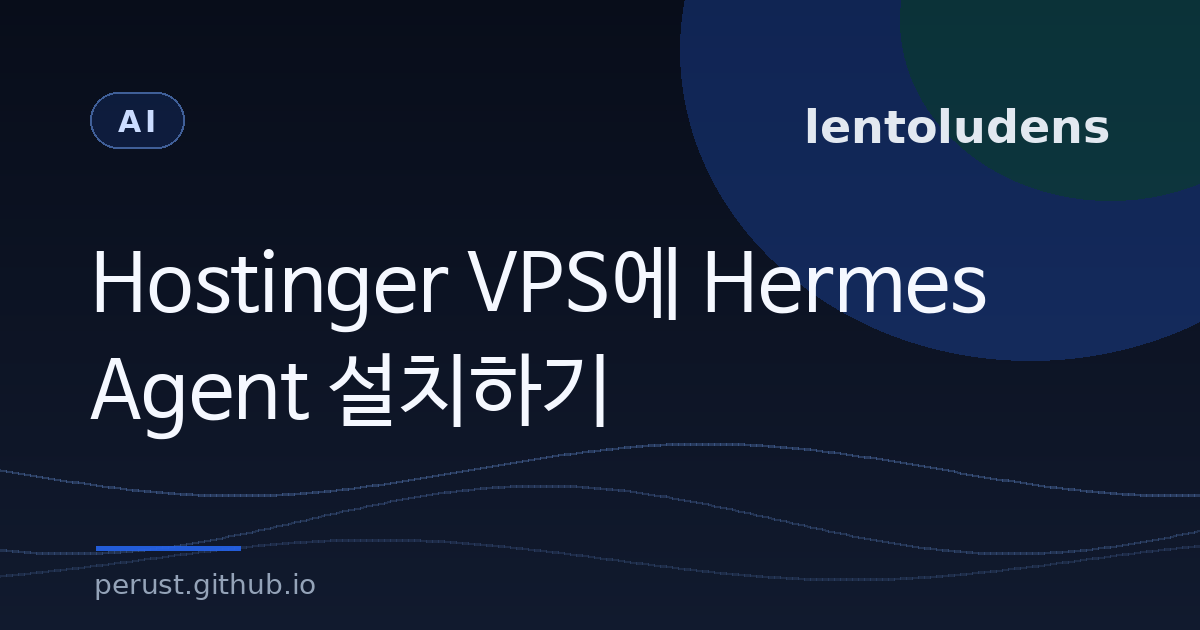
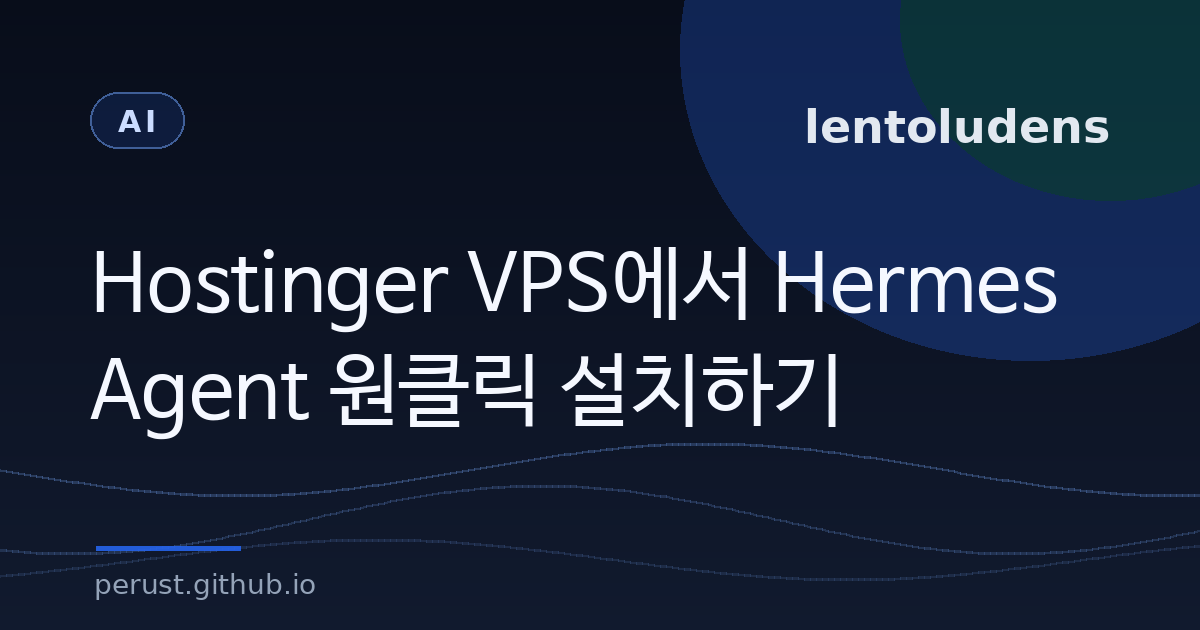
docs: clarify Hostinger Hermes one-click setup

Changed region(s): [[0.2775, 0.5429, 0.7092, 0.6937], [0.555, 0.3921, 0.8942, 0.5127]]

diff --git a/src/content/blog/2026-07-08-hostinger-vps-hermes-agent-install-guide.md b/src/content/blog/2026-07-08-hostinger-vps-hermes-agent-install-guide.md
@@ -1,13 +1,13 @@
 ---
-title: "Hostinger VPS에 Hermes Agent 설치하기"
-description: "Hostinger VPS에서 Hermes Agent를 설치하고 모델, 도구, 게이트웨이, 예약 작업까지 운영하는 과정을 Ubuntu 기준으로 정리했습니다."
+title: "Hostinger VPS에서 Hermes Agent 원클릭 설치하기"
+description: "Hostinger VPS의 Application Catalog로 Hermes Agent를 배포하고, 모델·CLI·도구·게이트웨이·예약 작업까지 설정하는 방법을 정리했습니다."
 date: "2026-07-08"
 category: "AI"
 tags: ["HermesAgent", "Hostinger", "VPS", "AI에이전트", "자동화", "서버운영", "Slack"]
 ---
 
-Hermes Agent를 제대로 쓰려면 개인 PC보다 VPS가 더 편한 경우가 많습니다. PC를 꺼도 에이전트가 계속 살아 있어야 하고, Slack·Discord·Telegram 같은 메신저에서 부르고, 정해진 시간에 자동 보고서를 보내게 만들려면 24시간 켜져 있는 서버가 필요하기 때문입니다.<br />
-Hostinger VPS는 이런 용도로 시작하기 쉬운 선택지입니다. 일반 웹호스팅이 아니라 Ubuntu VPS를 만들고, 그 안에 Hermes Agent를 설치하면 개인용 AI 작업 서버처럼 쓸 수 있습니다.
+Hostinger VPS에서는 Hermes Agent를 처음부터 수동 설치할 필요가 없습니다. Hostinger가 Application Catalog에서 Hermes Agent 배포 옵션을 제공하기 때문에, VPS 대시보드에서 앱을 선택하면 Docker 컨테이너와 필요한 서비스가 기본으로 만들어지는 흐름입니다.<br />
+따라서 이 글의 핵심은 “Ubuntu 서버에 처음부터 직접 설치”가 아니라, Hostinger의 Hermes Agent 원클릭 배포를 먼저 쓰고 이후 CLI·모델 제공자·도구·Gateway·Cron을 어떻게 설정해 개인 AI 작업 서버로 운영할지입니다.
 
 ![Hostinger VPS에서 Hermes Agent를 운영하는 구조](/images/posts/summary/2026-07-08-hostinger-vps-hermes-agent-install-guide-summary.svg)
 
@@ -16,18 +16,18 @@ Hostinger VPS는 이런 용도로 시작하기 쉬운 선택지입니다. 일반
 <ul class="issue-list">
   <li class="issue-card">
     <span class="issue-badge">전제</span>
-    <h3>공유 호스팅이 아니라 VPS</h3>
-    <p class="issue-summary">Hermes Agent는 터미널 실행, 파일 접근, 백그라운드 게이트웨이, 예약 작업이 필요합니다. 따라서 일반 웹호스팅보다 Ubuntu VPS 환경이 맞습니다.</p>
+    <h3>Hostinger Application Catalog 사용</h3>
+    <p class="issue-summary">Hostinger VPS에는 Hermes Agent를 Application Catalog에서 배포하는 옵션이 있습니다. 앱을 선택하면 Docker 기반으로 Hermes Agent 컨테이너와 관련 서비스가 자동 생성됩니다.</p>
   </li>
   <li class="issue-card">
     <span class="issue-badge">설치</span>
-    <h3>공식 설치 스크립트로 시작</h3>
-    <p class="issue-summary">Linux 기준 설치 명령은 <code>curl -fsSL https://hermes-agent.nousresearch.com/install.sh | bash</code>입니다. 설치 후 <code>hermes setup</code> 또는 <code>hermes model</code>로 모델 제공자를 설정합니다.</p>
+    <h3>수동 설치보다 원클릭 배포 먼저</h3>
+    <p class="issue-summary">기본 흐름은 hPanel의 VPS 대시보드에서 Hermes Agent를 선택하고 관리자 계정, 모델/API 키 또는 Hostinger 제공 크레딧을 설정한 뒤 배포하는 것입니다.</p>
   </li>
   <li class="issue-card">
     <span class="issue-badge">운영</span>
-    <h3>Gateway와 Cron까지 연결</h3>
-    <p class="issue-summary">메신저에서 Hermes를 부르려면 <code>hermes gateway setup</code>을 사용합니다. 반복 보고서나 서버 점검은 <code>hermes cron</code>으로 예약할 수 있습니다.</p>
+    <h3>CLI에서 설정을 마무리</h3>
+    <p class="issue-summary">배포 후에는 Hostinger Docker Manager의 터미널에서 Hermes CLI를 열고, 첫 실행 설정·모델 제공자·도구·Gateway·Cron을 필요에 맞게 조정합니다.</p>
   </li>
 </ul>
 
@@ -83,111 +83,66 @@ Hermes Agent는 로컬 노트북에도 설치할 수 있습니다. 하지만 자
   <div><dt>선택 사항</dt><dd>Slack·Discord·Telegram 봇 토큰, 도메인, Webhook/API 서버용 리버스 프록시 설정입니다.</dd></div>
 </div>
 
-Hermes 공식 문서에 따르면 Linux 설치에서 핵심 전제는 Git이며, Linux에서는 `curl`과 `xz-utils`도 준비되어 있어야 합니다. Python, Node.js, ripgrep, ffmpeg 등은 설치 스크립트가 자동으로 처리합니다.
+Hostinger 공식 안내에 따르면 Hermes Agent는 Hostinger VPS의 Application Catalog를 통해 배포할 수 있습니다. 이 방식은 Docker 기반으로 Hermes Agent 컨테이너와 Traefik 같은 필요한 서비스를 자동 생성하므로, 일반적인 Linux 수동 설치보다 먼저 고려할 기본 경로입니다.
+
+<https://www.hostinger.com/support/how-to-get-started-with-hermes-agent-on-hostinger-vps/>
+
+수동 설치가 필요한 경우에는 Hermes 공식 설치 문서의 Linux 설치 명령을 사용할 수 있습니다. 다만 Hostinger VPS에서 새로 시작한다면 Application Catalog 배포가 더 단순합니다.
 
 <https://hermes-agent.nousresearch.com/docs/getting-started/installation>
 
 ## 전체 설치 흐름
 
-Hostinger VPS 기준 흐름은 아래와 같습니다.
+Hostinger VPS 기준 기본 흐름은 아래와 같습니다.
+
+<div class="routine-kv">
+  <div><dt>1단계</dt><dd>Hostinger hPanel에서 VPS를 만들고 대시보드로 이동합니다.</dd></div>
+  <div><dt>2단계</dt><dd>Application Catalog 또는 Docker Manager에서 Hermes Agent를 선택합니다.</dd></div>
+  <div><dt>3단계</dt><dd>배포 중 관리자 username/password를 정하고, nexos.ai·Oxylabs 크레딧 또는 직접 보유한 API 키를 입력합니다.</dd></div>
+  <div><dt>4단계</dt><dd>Deploy를 누르면 Hostinger가 Hermes Agent 컨테이너와 필요한 서비스를 자동으로 만들고 시작합니다.</dd></div>
+  <div><dt>5단계</dt><dd>Docker Manager에서 Hermes 프로젝트의 Terminal 버튼을 눌러 Hermes CLI를 엽니다.</dd></div>
+</div>
+
+이 방식이면 SSH로 서버에 접속해 처음부터 패키지를 설치하고 `curl` 설치 스크립트를 실행하는 과정이 기본 경로가 아닙니다. SSH 접속과 수동 설치는 커스텀 운영, 디버깅, 또는 Hostinger 기본 앱 배포를 쓰지 않을 때의 보조 경로로 보면 됩니다.
+
+## Hostinger에서 Hermes Agent 배포
+
+Hostinger 공식 지원 문서 기준으로 Hermes Agent는 VPS의 Application Catalog에서 선택해 배포합니다. 배포 중에는 관리자 계정 정보를 정하고, 필요하면 모델이나 웹 추출용 API 키를 넣습니다.
+
+<div class="routine-grid">
+  <section class="routine-card">
+    <h3>Application Catalog</h3>
+    <p>VPS 대시보드에서 Hermes Agent를 검색하고 배포합니다. Hostinger는 이 과정을 원클릭 앱 배포 흐름으로 제공합니다.</p>
+  </section>
+  <section class="routine-card">
+    <h3>Docker 기반 실행</h3>
+    <p>배포가 끝나면 Hermes Agent는 Docker 컨테이너 안에서 실행됩니다. Hostinger 안내에 따르면 필요한 서비스도 함께 생성됩니다.</p>
+  </section>
+  <section class="routine-card">
+    <h3>내장 크레딧 또는 직접 API 키</h3>
+    <p>nexos.ai 크레딧을 쓰면 Claude, Gemini, GPT 계열 모델을 단일 게이트웨이로 연결할 수 있고, Oxylabs 크레딧은 웹 검색·데이터 추출에 사용할 수 있습니다. 직접 보유한 API 키를 넣는 것도 가능합니다.</p>
+  </section>
+  <section class="routine-card">
+    <h3>터미널에서 CLI 접근</h3>
+    <p>배포 후 Docker Manager에서 Hermes 프로젝트 옆 Terminal 버튼을 눌러 CLI를 열고 첫 설정을 마무리합니다.</p>
+  </section>
+</div>
+
+## SSH와 수동 설치가 필요한 경우
+
+대부분은 Application Catalog 배포로 시작하면 됩니다. 그래도 직접 서버를 만지고 싶거나, 별도 사용자·디렉터리·서비스 구조로 운영하려면 SSH 접속 후 수동 설치를 선택할 수 있습니다.
 
 ```bash
 ssh root@YOUR_VPS_IP
 apt update && apt upgrade -y
 apt install -y curl git xz-utils sudo ca-certificates ufw
-adduser hermes
-usermod -aG sudo hermes
-su - hermes
 curl -fsSL https://hermes-agent.nousresearch.com/install.sh | bash
 source ~/.bashrc
 hermes setup
 hermes
 ```
 
-이 흐름만 끝내도 CLI에서 Hermes Agent를 사용할 수 있습니다. 이후 운영 목적에 따라 도구, 게이트웨이, 예약 작업, 방화벽, 도메인을 추가하면 됩니다.
-
-## SSH 접속
-
-Hostinger VPS를 만든 뒤에는 서버 IP로 접속합니다. 예시는 다음과 같습니다.
-
-```bash
-ssh root@YOUR_VPS_IP
-```
-
-SSH 키를 쓰는 경우에는 다음처럼 접속합니다.
-
-```bash
-ssh -i ~/.ssh/your-key.pem root@YOUR_VPS_IP
-```
-
-처음 접속한 뒤에는 서버 패키지를 업데이트합니다.
-
-```bash
-apt update && apt upgrade -y
-```
-
-기본 패키지를 설치합니다.
-
-```bash
-apt install -y curl git xz-utils sudo ca-certificates ufw
-```
-
-## 전용 사용자 생성
-
-root 계정으로 계속 운영하는 것보다 전용 사용자를 만드는 편이 안전합니다. 여기서는 사용자명을 `hermes`로 두겠습니다.
-
-```bash
-adduser hermes
-usermod -aG sudo hermes
-```
-
-이후 해당 사용자로 전환합니다.
-
-```bash
-su - hermes
-```
-
-앞으로는 가능하면 이 사용자로 접속합니다.
-
-```bash
-ssh hermes@YOUR_VPS_IP
-```
-
-## Hermes Agent 설치
-
-Hermes Agent의 Linux 설치 명령은 공식 문서 기준 다음과 같습니다.
-
-```bash
-curl -fsSL https://hermes-agent.nousresearch.com/install.sh | bash
-```
-
-설치가 끝나면 셸 설정을 다시 불러옵니다.
-
-```bash
-source ~/.bashrc
-```
-
-설치 확인은 다음으로 합니다.
-
-```bash
-hermes --version
-```
-
-문제가 있으면 진단 명령을 먼저 실행합니다.
-
-```bash
-hermes doctor
-```
-
-일반 사용자 설치 기준 주요 경로는 다음과 같습니다.
-
-<div class="routine-kv">
-  <div><dt>실행 파일</dt><dd><code>~/.local/bin/hermes</code></dd></div>
-  <div><dt>Hermes 데이터</dt><dd><code>~/.hermes/</code></dd></div>
-  <div><dt>설정 파일</dt><dd><code>~/.hermes/config.yaml</code></dd></div>
-  <div><dt>API 키 파일</dt><dd><code>~/.hermes/.env</code></dd></div>
-  <div><dt>로그</dt><dd><code>~/.hermes/logs/</code></dd></div>
-</div>
+수동 설치는 커스터마이징 자유도가 높지만, Hostinger가 제공하는 Docker Manager·원클릭 업데이트·컨테이너 로그 확인 흐름과는 운영 방식이 달라질 수 있습니다. 처음 쓰는 사용자에게는 Hostinger 기본 Hermes Agent 앱 배포가 더 맞습니다.
 
 ## 모델 제공자 설정
 
@@ -564,21 +519,17 @@ Hermes Agent를 Hostinger VPS에 올려 쓰는 방식은 단순한 설치 팁을
 
 ## 마지막으로
 
-Hostinger VPS에 Hermes Agent를 설치하면 개인용 AI 작업 서버를 비교적 쉽게 만들 수 있습니다. 처음에는 CLI에서 한 줄 질문으로 시작하고, 익숙해지면 Gateway와 Cron을 붙여 메신저 자동화 서버로 확장하면 됩니다.
+Hostinger VPS에서 Hermes Agent를 시작할 때는 수동 설치 명령부터 찾기보다, 먼저 Hostinger의 Application Catalog 배포 옵션을 확인하는 것이 맞습니다. 기본 배포는 Docker 컨테이너와 필요한 서비스를 만들어주고, 사용자는 Docker Manager의 터미널에서 Hermes CLI 설정을 이어가면 됩니다.
 
-가장 짧은 설치 흐름은 아래와 같습니다.
+정리하면 가장 짧은 흐름은 다음입니다.
 
-```bash
-ssh root@YOUR_VPS_IP
-apt update && apt upgrade -y
-apt install -y curl git xz-utils sudo ca-certificates ufw
-adduser hermes
-usermod -aG sudo hermes
-su - hermes
-curl -fsSL https://hermes-agent.nousresearch.com/install.sh | bash
-source ~/.bashrc
-hermes setup
-hermes
-```
+<div class="routine-kv">
+  <div><dt>1</dt><dd>Hostinger VPS 구매 또는 생성</dd></div>
+  <div><dt>2</dt><dd>VPS 대시보드에서 Application Catalog 열기</dd></div>
+  <div><dt>3</dt><dd>Hermes Agent 선택 후 관리자 계정과 API 키·크레딧 설정</dd></div>
+  <div><dt>4</dt><dd>Deploy로 Docker 컨테이너 자동 생성</dd></div>
+  <div><dt>5</dt><dd>Docker Manager Terminal에서 Hermes CLI 실행</dd></div>
+  <div><dt>6</dt><dd>모델, 도구, Gateway, Cron을 목적에 맞게 조정</dd></div>
+</div>
 
-여기까지 끝나면 Hostinger VPS 위에서 Hermes Agent를 실행할 준비가 됩니다. 이후에는 모델 제공자, 도구, 메신저, 예약 작업을 하나씩 붙이면서 자신에게 맞는 개인 AI 운영 환경으로 키워가면 됩니다.
+수동 설치 명령은 커스텀 서버 구성이나 별도 운영 방식이 필요할 때의 대안입니다. 처음 쓰는 사용자라면 Hostinger 기본 Hermes Agent 앱 배포로 시작하고, 이후 메신저 연동과 예약 작업을 하나씩 붙이는 방식이 가장 덜 헷갈립니다.
